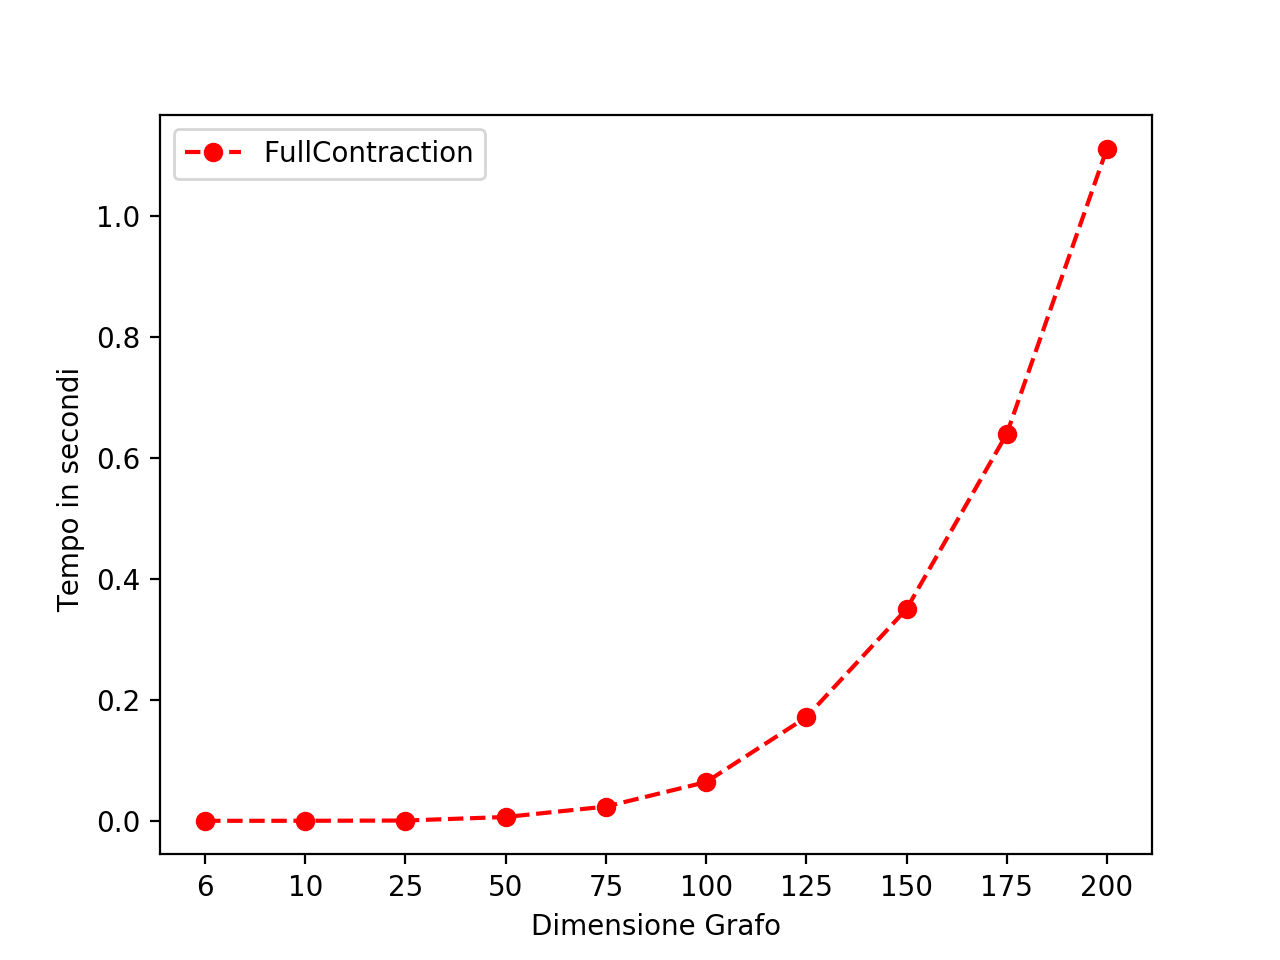
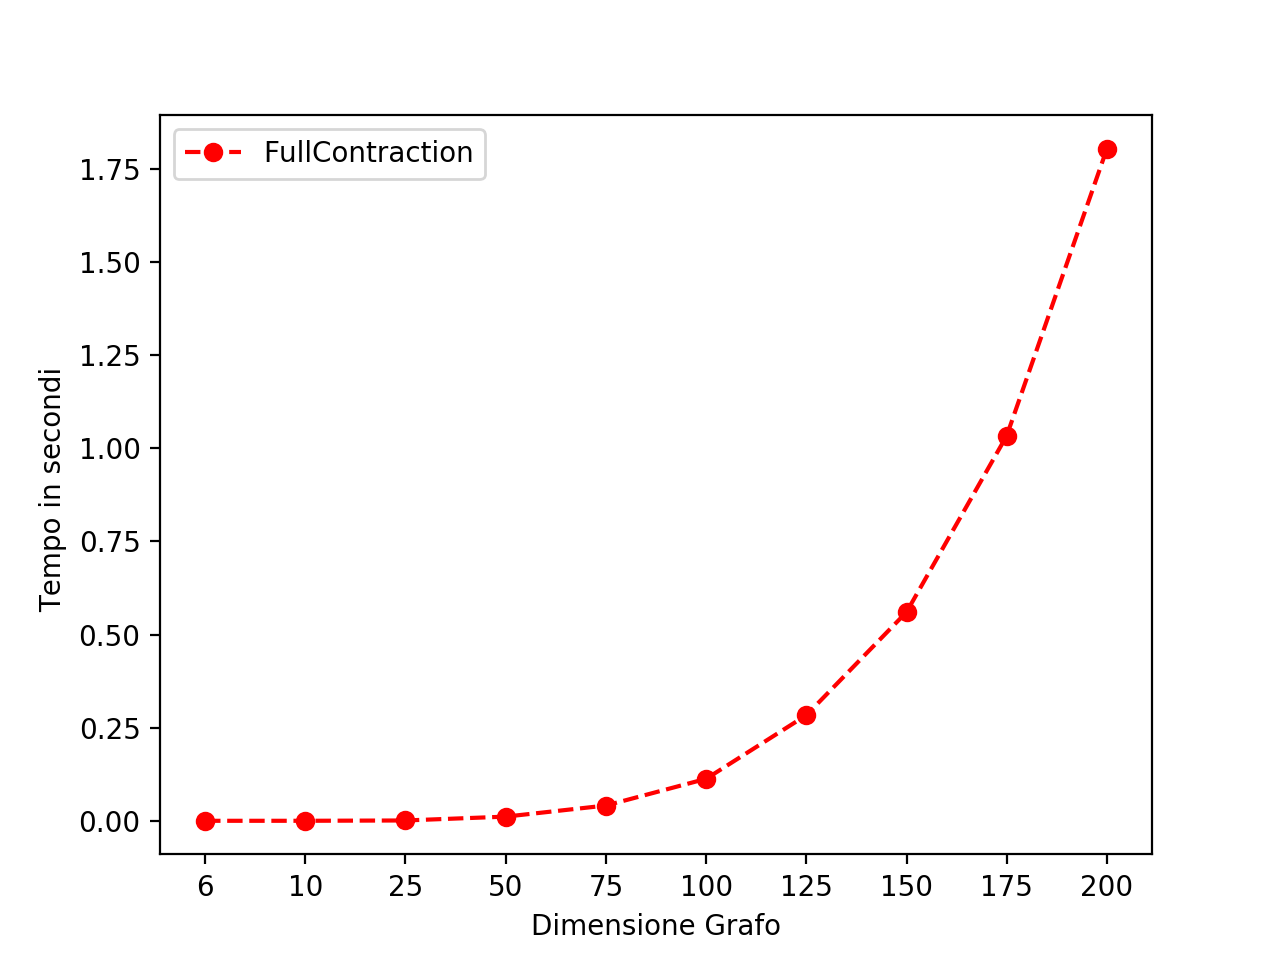
report

diff --git a/plot.py b/plot.py
@@ -6,23 +6,9 @@ from matplotlib.pyplot import figure
 ##### line plot con media #####
 def plotLine():
     labels=['6', '10', '25', '50', '75', '100', '125', '150', '175', '200']
-    time=[]
-    with open('TimeFullContraction.txt', 'r') as f:
-        lines = f.readlines()
-        count=1
-        media=0
-        for line in lines:
-            t = line.strip().split()
-            if count==3:
-                media=media/4
-                time.append(media)
-                count=0
-                media=0
-            else:
-                media+=float(t[1])
-                count+=1
-    print(round(time))
-    print(len(time))
+    time=[9.78708267211914e-05, 0.00012624263763427734, 0.0009779930114746094, 0.011298954486846924, 0.04109221696853638,0.11278682947158813 , 0.28355300426483154,
+    0.5602636337280273, 1.0336890816688538, 1.8040754795074463]
+    
     index = np.arange(10)
     bar_width = 0.15
     opacity = 0.8
@@ -38,6 +24,28 @@ def plotLine():
     plt.show()
 
 plotLine()
+
+##### line plot con media per karger #####
+def plotKarger():
+    labels=['6', '10', '25', '50', '75']
+    time=[0.00215238332748413, 0.0123276114463806, 0.944083213806152, 53.0861380696297,
+    487.797095239162]
+    
+    index = np.arange(5)
+    bar_width = 0.15
+    opacity = 0.8
+
+    plt.plot(time, linestyle='--', marker='o', color='r', label="FullContraction")
+
+    y_pos = np.arange(len(labels))
+    plt.rcParams["figure.figsize"] = (10,10)
+    plt.ylabel('Tempo in secondi ')
+    plt.xlabel('Dimensione Grafo')
+    plt.xticks(y_pos, labels)
+    plt.legend()
+    plt.show()
+
+plotKarger()
 
 ##### line plot numero ripetizioni FulContraction #####
 def plotIt():
@@ -61,7 +69,7 @@ def plotIt():
     plt.xticks(y_pos, labels)
     plt.show()
 
-plotIt()
+#plotIt()
 
 def b_plot(p, labels, groups, a, xy):
     # create plot

diff --git a/Karger.py b/Karger.py
@@ -10,11 +10,12 @@ def defineK(n):
     return round(k)
 
 def karger(filename, k):
-    timeinit = time.time()
+    #timeinit = time.time()
     min= MAX
     while k>0:
-        if time.time() > timeinit + 10:
+        if time.time() > timeinit + 600:
             break
+        print(k)
         edges=c.FullContraction(filename)
         if edges<min:
             min=edges
@@ -22,6 +23,14 @@ def karger(filename, k):
     print(min)
     return min
 
+
+listfile=['input_random_20_75.txt']
+string=""
+f=open('ResultKarger1.txt', 'w+')
+#for i in range(0, len(listfile)):
 start_time = time.time()
-karger('input_random_17_75.txt', defineK(75))
+min= karger('input_random_20_75.txt', defineK(75))
 print("time : %s seconds " % (time.time() - start_time))
+string+= 'input_random_20_75.txt' + '  ' +  str((time.time() - start_time)) + '  ' + str(min) + '\n'
+f.write(string)
+f.close
